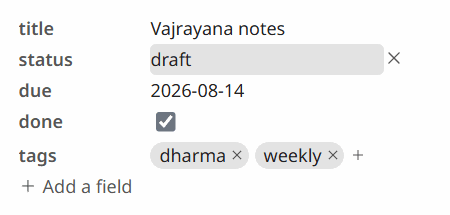
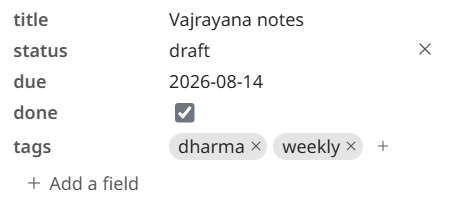
Release v1.1.6 [frontmatter-hover]

diff --git a/gallery.html b/gallery.html
@@ -6434,13 +6434,9 @@ body.is-block-dragging .document-body [data-src-start] {
   margin: 0;
   padding: 0;
 }
-/* A field block whose values can be typed into. The wash says which row the click will land on -- the table carries no chrome of its own, so without it there is nothing telling a reader the value is a control. A locked document never gets the class, and reads exactly as it did before. */
+/* A field block whose values can be typed into. The caret is the whole cue, exactly as it is for a paragraph lower down the page: nothing paints behind a value the pointer is over, because a page being edited is still a page and not a form. The cross appearing at the end of the row is what says the row itself answers the pointer. A locked document never gets the class. */
 .document-body .frontmatter.is-editable td[data-leaf-field] {
-  border-radius: var(--lt-radius-sm);
   cursor: text;
-}
-.document-body .frontmatter.is-editable td[data-leaf-field]:hover {
-  background: var(--lt-wash-hover);
 }
 /* The box sits in the row it replaced, at the row's own size, so opening one moves no other line of the table. */
 .document-body .frontmatter td.is-editing {
@@ -6501,14 +6497,18 @@ body.is-block-dragging .document-body [data-src-start] {
   display: flex;
   align-items: center;
   gap: var(--lt-space-4);
-  padding: 0;
+  /* Room each side, so what the pointer paints is a chip around the words rather than a band the words are pressed against. The left edge stays on the key column and the label sits inside it; nothing is pulled back out to the margin. */
+  padding: var(--lt-space-4) var(--lt-space-8);
   border: 0;
+  border-radius: var(--lt-radius-md);
   background: none;
   color: var(--lt-muted-foreground);
   font: inherit;
   cursor: pointer;
 }
+/* The fill has to be named here, not merely cleared above: `button:hover` is a pseudo-class and an element, so it outranks one class on its own and paints this the app's primary purple with the quiet label left unreadable on it. */
 .frontmatter-add-button:hover {
+  background: var(--lt-wash-hover);
   color: var(--lt-foreground);
 }
 .frontmatter-add-button .lt-icon {
@@ -6540,8 +6540,15 @@ body.is-block-dragging .document-body [data-src-start] {
   color: var(--lt-muted-foreground);
   cursor: pointer;
 }
+/* The one that is not inside a chip stands on the page beside them, so it carries its own room the way the add button does. */
+.frontmatter-chip-add {
+  align-items: center;
+  padding: var(--lt-space-2) var(--lt-space-4);
+}
+/* Named for the same reason as the add button above. Over a chip's own pill the wash deepens what is already there rather than replacing it, which is how it reads as a target at this size. */
 .frontmatter-chip-remove:hover,
 .frontmatter-chip-add:hover {
+  background: var(--lt-wash-hover);
   color: var(--lt-foreground);
 }
 .frontmatter-chip-remove .lt-icon,

diff --git a/src/assets/reading.css b/src/assets/reading.css
@@ -4049,13 +4049,9 @@ body.is-block-dragging .document-body [data-src-start] {
   margin: 0;
   padding: 0;
 }
-/* A field block whose values can be typed into. The wash says which row the click will land on -- the table carries no chrome of its own, so without it there is nothing telling a reader the value is a control. A locked document never gets the class, and reads exactly as it did before. */
+/* A field block whose values can be typed into. The caret is the whole cue, exactly as it is for a paragraph lower down the page: nothing paints behind a value the pointer is over, because a page being edited is still a page and not a form. The cross appearing at the end of the row is what says the row itself answers the pointer. A locked document never gets the class. */
 .document-body .frontmatter.is-editable td[data-leaf-field] {
-  border-radius: var(--lt-radius-sm);
   cursor: text;
-}
-.document-body .frontmatter.is-editable td[data-leaf-field]:hover {
-  background: var(--lt-wash-hover);
 }
 /* The box sits in the row it replaced, at the row's own size, so opening one moves no other line of the table. */
 .document-body .frontmatter td.is-editing {
@@ -4116,14 +4112,18 @@ body.is-block-dragging .document-body [data-src-start] {
   display: flex;
   align-items: center;
   gap: var(--lt-space-4);
-  padding: 0;
+  /* Room each side, so what the pointer paints is a chip around the words rather than a band the words are pressed against. The left edge stays on the key column and the label sits inside it; nothing is pulled back out to the margin. */
+  padding: var(--lt-space-4) var(--lt-space-8);
   border: 0;
+  border-radius: var(--lt-radius-md);
   background: none;
   color: var(--lt-muted-foreground);
   font: inherit;
   cursor: pointer;
 }
+/* The fill has to be named here, not merely cleared above: `button:hover` is a pseudo-class and an element, so it outranks one class on its own and paints this the app's primary purple with the quiet label left unreadable on it. */
 .frontmatter-add-button:hover {
+  background: var(--lt-wash-hover);
   color: var(--lt-foreground);
 }
 .frontmatter-add-button .lt-icon {
@@ -4155,8 +4155,15 @@ body.is-block-dragging .document-body [data-src-start] {
   color: var(--lt-muted-foreground);
   cursor: pointer;
 }
+/* The one that is not inside a chip stands on the page beside them, so it carries its own room the way the add button does. */
+.frontmatter-chip-add {
+  align-items: center;
+  padding: var(--lt-space-2) var(--lt-space-4);
+}
+/* Named for the same reason as the add button above. Over a chip's own pill the wash deepens what is already there rather than replacing it, which is how it reads as a target at this size. */
 .frontmatter-chip-remove:hover,
 .frontmatter-chip-add:hover {
+  background: var(--lt-wash-hover);
   color: var(--lt-foreground);
 }
 .frontmatter-chip-remove .lt-icon,

diff --git a/docs/02-development/02-building.md b/docs/02-development/02-building.md
@@ -50,10 +50,10 @@ just verify
 This runs formatting, type checking, the tests, the drift checks over everything that is generated, the design-system rules, the spelling check, the front-end check, the docs-coverage check, and the repo guards, in sequence. All steps must pass. The `verify` recipe is defined in the project `Justfile` as:
 
 ```text
-verify: format-check check check-web check-installer check-web-commands test check-vendor check-themes check-tokens check-icons check-gallery check-design-docs check-classes check-literals check-scratch-names check-verify check-justfile-quotes check-spelling check-docs check-plan check-wrapping check-ascii-art check-site check-shell check-identity check-hooks check-release-package check-mcp check-driver check-shot-edges check-compose-shots
+verify: format-check check check-web check-installer check-web-commands test check-vendor check-themes check-tokens check-icons check-gallery check-design-docs check-classes check-literals check-hover-fills check-scratch-names check-verify check-justfile-quotes check-spelling check-docs check-plan check-wrapping check-ascii-art check-site check-shell check-identity check-hooks check-release-package check-mcp check-driver check-shot-edges check-compose-shots
 ```
 
-The design-system steps are the ones worth knowing about. `check-tokens`, `check-icons`, `check-gallery` and `check-design-docs` fail when a generated file has drifted from the four files in `design/` it is built from — the stylesheet's fixed values, the icon classes, the page at [leaftext.com/gallery.html](https://leaftext.com/gallery.html), and [Design system](05-design-system.md). `check-classes` fails on a class in `reading.css` that `design/components.md` does not account for, so new interface joins the design system rather than growing beside it. `check-literals` fails on a color, size, spacing or duration typed into `reading.css` instead of coming from a value. `check-verify` fails when a check exists but this recipe does not run it. `check-scratch-names` fails on a path in the OS temp folder built from a fixed name: two people, or two agents, running the suite at once on one checkout share every such file, and the failure that follows names anything but the second writer — a scratch name carries the run's own process id, or the OS hands it out, and the paths that have to stay fixed each carry a row saying why, with a row matching nothing failing too. `check-web` type-checks the browser package, which `cargo check --all-targets` never reaches — the workspace's only default member is the app itself — and it checks both feature ends, because the whole app in a browser is behind a feature the core does not have, and that is where it once stopped compiling while every check here stayed green. `check-installer` is there for the same reason and about the third package: the Windows EXE installer links nothing of the app, so nothing else in the suite compiles it, and everything it does is a plan before it is an act — the files, the registry values and the one Start Menu entry as data — which is why the whole of it can be tested on a machine with nothing installed. `check-web-commands` is the other half of that split: the app and a published site are one front end with two hosts under it, so every command in `IpcCommand` — the app's one typed list of what the page may send — has to carry a written line in the browser's own host saying what a browser does about it, and the check fails on an arm with no line, on a line naming no arm, and on a command the front end sends by name that neither host has an arm for. A control whose command goes unanswered is not a control that does nothing: the page raises a waiting state before it sends and clears it only when the answer arrives, so it waits for ever. `check-docs` fails on a Markdown file — in this repo or the plan folder beside it — that no role covers, so a new kind of document has to say who keeps it true rather than quietly going stale. It also opens every relative link in those files whose target ends `.md` and fails on one that is not a file, naming the file, the line and the target, so a citation that stopped opening anything when its target moved is caught rather than found by a reader. Code is stripped first — fenced blocks a line at a time, then inline spans — because a page teaching an author how to write a link is documentation of a link, not a link. In the same read it asks whether a live ticket adding a control says what that control looks like: a ticket whose phases name `design/components.md` is one adding a control, since `check-classes` refuses any class the stylesheet paints that has no row there, so a `## What it looks like` section is owed and the check fails without one. A ticket that draws nothing new says so in that section in one sentence rather than being refused for work it is not doing, and the matcher is proved off a table of cases before either tree is opened. It cannot see a ticket that moves an existing control without touching `design/`. `check-plan` holds the running order beside those tickets to the same standard, on the six things about its shape that can be settled without judgment: a live ticket with no row anywhere, a position that skips or repeats, one of the three counts at the foot disagreeing with what is on disk, a row ranked above the ticket it says it is waiting on, a fix ranked below the tier for what is wrong today, and a feature ranked inside it. Its own rules are proved against made-up files before the real one is opened. Each of those has gone wrong silently — a ticket with no row is work nobody picks up, and a row above its own blocker is the one fault that actively sends somebody at a ticket they cannot start. `check-site` opens each page the site publishes, follows the script it loads, and fails on a file the page fetches by a path with nothing at it — a 404 that shows up only once the page is live. It also holds the site to what it advertises: every address in `sitemap.xml`, `sitemap-md.txt`, `llms.txt` and `llms-full.txt` resolves to a file, none of them hides behind a `#` a server never sees, and each entry page names its own Markdown source and the two AI indexes — in the head for a machine, and in a `noscript` block for anything reading the body without running the script. It re-runs `scripts/seo-gen.mjs` in memory and fails when a committed discovery file disagrees with what the generator would write today, naming the address it should gain or lose, so a doc page added or renamed cannot leave those files quietly stale. Dates are left out of that comparison: a `<lastmod>` is a file's own last commit date, which the commit that changes the file cannot know in advance. It also runs the site's own link-tooltip code, since nothing else does, and fails when a Previous / Next button's tooltip stops naming the page it opens. `check-identity` fails on an assistant credited anywhere in the repo or its history, and `check-hooks` self-tests the four hooks. `check-wrapping` fails on a paragraph broken across lines, in Markdown and in a comment in the code alike — a `//` run and a `/* */` block in a stylesheet both, the block measured against its own indent because its lines are aligned under the opener rather than starting at column zero; `--fix` joins them, and `check-ascii-art` fails on a diagram drawn with box characters, since those only line up in one font at one size. `check-shot-edges` fails on a screenshot carrying a black strip nobody drew, from one of the two bands the window holds around the app. `check-release-package` fails when the release workflows could no longer find the app's binary in the workspace — the browser package sorts ahead of it, so a workflow that took the first member it found would build both Mac chips and then have nothing to package. The last two are about driving a running copy: `check-mcp` holds the ask pipe's wrapper, its registration and `src/pipe.rs` to each other, and `check-driver` covers both drivers with the half of each that needs no app and no site — it dry-runs every step the gesture driver takes, since a machine with no window open can read the step list back even though it cannot press anything, and it drives the browser driver against an empty page for eight seconds, failing if the page comes back hidden. That second one is a real run rather than a reading of the script, because what it guards against is a browser that stops honoring the call that keeps a headless page awake, and no amount of reading can see that.
+The design-system steps are the ones worth knowing about. `check-tokens`, `check-icons`, `check-gallery` and `check-design-docs` fail when a generated file has drifted from the four files in `design/` it is built from — the stylesheet's fixed values, the icon classes, the page at [leaftext.com/gallery.html](https://leaftext.com/gallery.html), and [Design system](05-design-system.md). `check-classes` fails on a class in `reading.css` that `design/components.md` does not account for, so new interface joins the design system rather than growing beside it. `check-literals` fails on a color, size, spacing or duration typed into `reading.css` instead of coming from a value. `check-hover-fills` reads the same stylesheet for two things the pointer must not paint: a background behind the values in a note's field block, where the caret is the cue and a band would be the app drawing a form over somebody's words, and a button that clears its own fill at rest without naming one for hover — the app-wide `button:hover` is a pseudo-class and an element, so it outranks a rest rule of one class alone and fills such a control with the primary color, leaving its quiet label unreadable on top. Only a class the markup in `design/components.md` draws on a button is held to the second rule, so the check widens by itself as the design system grows. `check-verify` fails when a check exists but this recipe does not run it. `check-scratch-names` fails on a path in the OS temp folder built from a fixed name: two people, or two agents, running the suite at once on one checkout share every such file, and the failure that follows names anything but the second writer — a scratch name carries the run's own process id, or the OS hands it out, and the paths that have to stay fixed each carry a row saying why, with a row matching nothing failing too. `check-web` type-checks the browser package, which `cargo check --all-targets` never reaches — the workspace's only default member is the app itself — and it checks both feature ends, because the whole app in a browser is behind a feature the core does not have, and that is where it once stopped compiling while every check here stayed green. `check-installer` is there for the same reason and about the third package: the Windows EXE installer links nothing of the app, so nothing else in the suite compiles it, and everything it does is a plan before it is an act — the files, the registry values and the one Start Menu entry as data — which is why the whole of it can be tested on a machine with nothing installed. `check-web-commands` is the other half of that split: the app and a published site are one front end with two hosts under it, so every command in `IpcCommand` — the app's one typed list of what the page may send — has to carry a written line in the browser's own host saying what a browser does about it, and the check fails on an arm with no line, on a line naming no arm, and on a command the front end sends by name that neither host has an arm for. A control whose command goes unanswered is not a control that does nothing: the page raises a waiting state before it sends and clears it only when the answer arrives, so it waits for ever. `check-docs` fails on a Markdown file — in this repo or the plan folder beside it — that no role covers, so a new kind of document has to say who keeps it true rather than quietly going stale. It also opens every relative link in those files whose target ends `.md` and fails on one that is not a file, naming the file, the line and the target, so a citation that stopped opening anything when its target moved is caught rather than found by a reader. Code is stripped first — fenced blocks a line at a time, then inline spans — because a page teaching an author how to write a link is documentation of a link, not a link. In the same read it asks whether a live ticket adding a control says what that control looks like: a ticket whose phases name `design/components.md` is one adding a control, since `check-classes` refuses any class the stylesheet paints that has no row there, so a `## What it looks like` section is owed and the check fails without one. A ticket that draws nothing new says so in that section in one sentence rather than being refused for work it is not doing, and the matcher is proved off a table of cases before either tree is opened. It cannot see a ticket that moves an existing control without touching `design/`. `check-plan` holds the running order beside those tickets to the same standard, on the six things about its shape that can be settled without judgment: a live ticket with no row anywhere, a position that skips or repeats, one of the three counts at the foot disagreeing with what is on disk, a row ranked above the ticket it says it is waiting on, a fix ranked below the tier for what is wrong today, and a feature ranked inside it. Its own rules are proved against made-up files before the real one is opened. Each of those has gone wrong silently — a ticket with no row is work nobody picks up, and a row above its own blocker is the one fault that actively sends somebody at a ticket they cannot start. `check-site` opens each page the site publishes, follows the script it loads, and fails on a file the page fetches by a path with nothing at it — a 404 that shows up only once the page is live. It also holds the site to what it advertises: every address in `sitemap.xml`, `sitemap-md.txt`, `llms.txt` and `llms-full.txt` resolves to a file, none of them hides behind a `#` a server never sees, and each entry page names its own Markdown source and the two AI indexes — in the head for a machine, and in a `noscript` block for anything reading the body without running the script. It re-runs `scripts/seo-gen.mjs` in memory and fails when a committed discovery file disagrees with what the generator would write today, naming the address it should gain or lose, so a doc page added or renamed cannot leave those files quietly stale. Dates are left out of that comparison: a `<lastmod>` is a file's own last commit date, which the commit that changes the file cannot know in advance. It also runs the site's own link-tooltip code, since nothing else does, and fails when a Previous / Next button's tooltip stops naming the page it opens. `check-identity` fails on an assistant credited anywhere in the repo or its history, and `check-hooks` self-tests the four hooks. `check-wrapping` fails on a paragraph broken across lines, in Markdown and in a comment in the code alike — a `//` run and a `/* */` block in a stylesheet both, the block measured against its own indent because its lines are aligned under the opener rather than starting at column zero; `--fix` joins them, and `check-ascii-art` fails on a diagram drawn with box characters, since those only line up in one font at one size. `check-shot-edges` fails on a screenshot carrying a black strip nobody drew, from one of the two bands the window holds around the app. `check-release-package` fails when the release workflows could no longer find the app's binary in the workspace — the browser package sorts ahead of it, so a workflow that took the first member it found would build both Mac chips and then have nothing to package. The last two are about driving a running copy: `check-mcp` holds the ask pipe's wrapper, its registration and `src/pipe.rs` to each other, and `check-driver` covers both drivers with the half of each that needs no app and no site — it dry-runs every step the gesture driver takes, since a machine with no window open can read the step list back even though it cannot press anything, and it drives the browser driver against an empty page for eight seconds, failing if the page comes back hidden. That second one is a real run rather than a reading of the script, because what it guards against is a browser that stops honoring the call that keeps a headless page awake, and no amount of reading can see that.
 
 `check-compose-shots` proves the vertical, diagonal, and grid PNG joins keep the selected pixels and expected dimensions.
 
@@ -90,6 +90,7 @@ Each step in the verification pipeline can also be run on its own:
 | Design docs check | `just check-design-docs` | Verify [Design system](05-design-system.md) matches `design/` |
 | Classes check | `just check-classes`       | Fail on a class in `reading.css` that `design/components.md` does not account for |
 | Values written by hand | `just check-literals` | Fail on a color, size, spacing or duration typed into `reading.css` |
+| Hover fills  | `just check-hover-fills`    | Fail on a rule painting behind a note's field values under the pointer, and on a button that clears its own fill at rest without naming one for hover |
 | Scratch names | `just check-scratch-names` | Fail on a temp-folder path built from a fixed name, which two runs at once would share |
 | Suite check  | `just check-verify`         | Fail when a check exists that `verify` does not run |
 | Justfile quotes | `just check-justfile-quotes` | Fail when quote characters directly surround an interpolation in a recipe |

diff --git a/docs/01-features/07-editing.md b/docs/01-features/07-editing.md
@@ -86,7 +86,7 @@ An [email](01-rendering.md#email-eml) edits where you read it too, wherever the 
 
 A note's [field block](01-rendering.md#frontmatter) — the `title`, `status`, `due` and `tags` between the two `---` lines — is edited where you read it, with the reading padlock open. There is no save button of its own: a change raises the same green **Save** as any other edit in the page, and `Ctrl+Z` steps back through them.
 
-![A note's field block with the pointer on one row: the row lightens and shows a small cross at its end, a checkbox is a real tick box, the tags are chips each with a cross and a plus after them, and an Add a field row sits under the last field](../../imgs/frontmatter-fields.png)
+![A note's field block with the pointer on one row: nothing is painted behind the value and a small cross has appeared at the row's end, a checkbox is a real tick box, the tags are chips each with a cross and a plus after them, and an Add a field row sits under the last field](../../imgs/frontmatter-fields.png)
 
 - **Click a value and type.** `Enter` keeps it, `Escape` abandons it, and clicking away keeps it.
 - **The control matches the field.** A date opens a calendar. A checkbox is a real box you tick. A list draws one chip per item, each with a cross, and a `+` for the next one. Everything else is a plain box. The app never guesses a control for a value it cannot read — a field pinned as a date but holding `sometime` keeps its plain box rather than opening a picker that would blank it.
